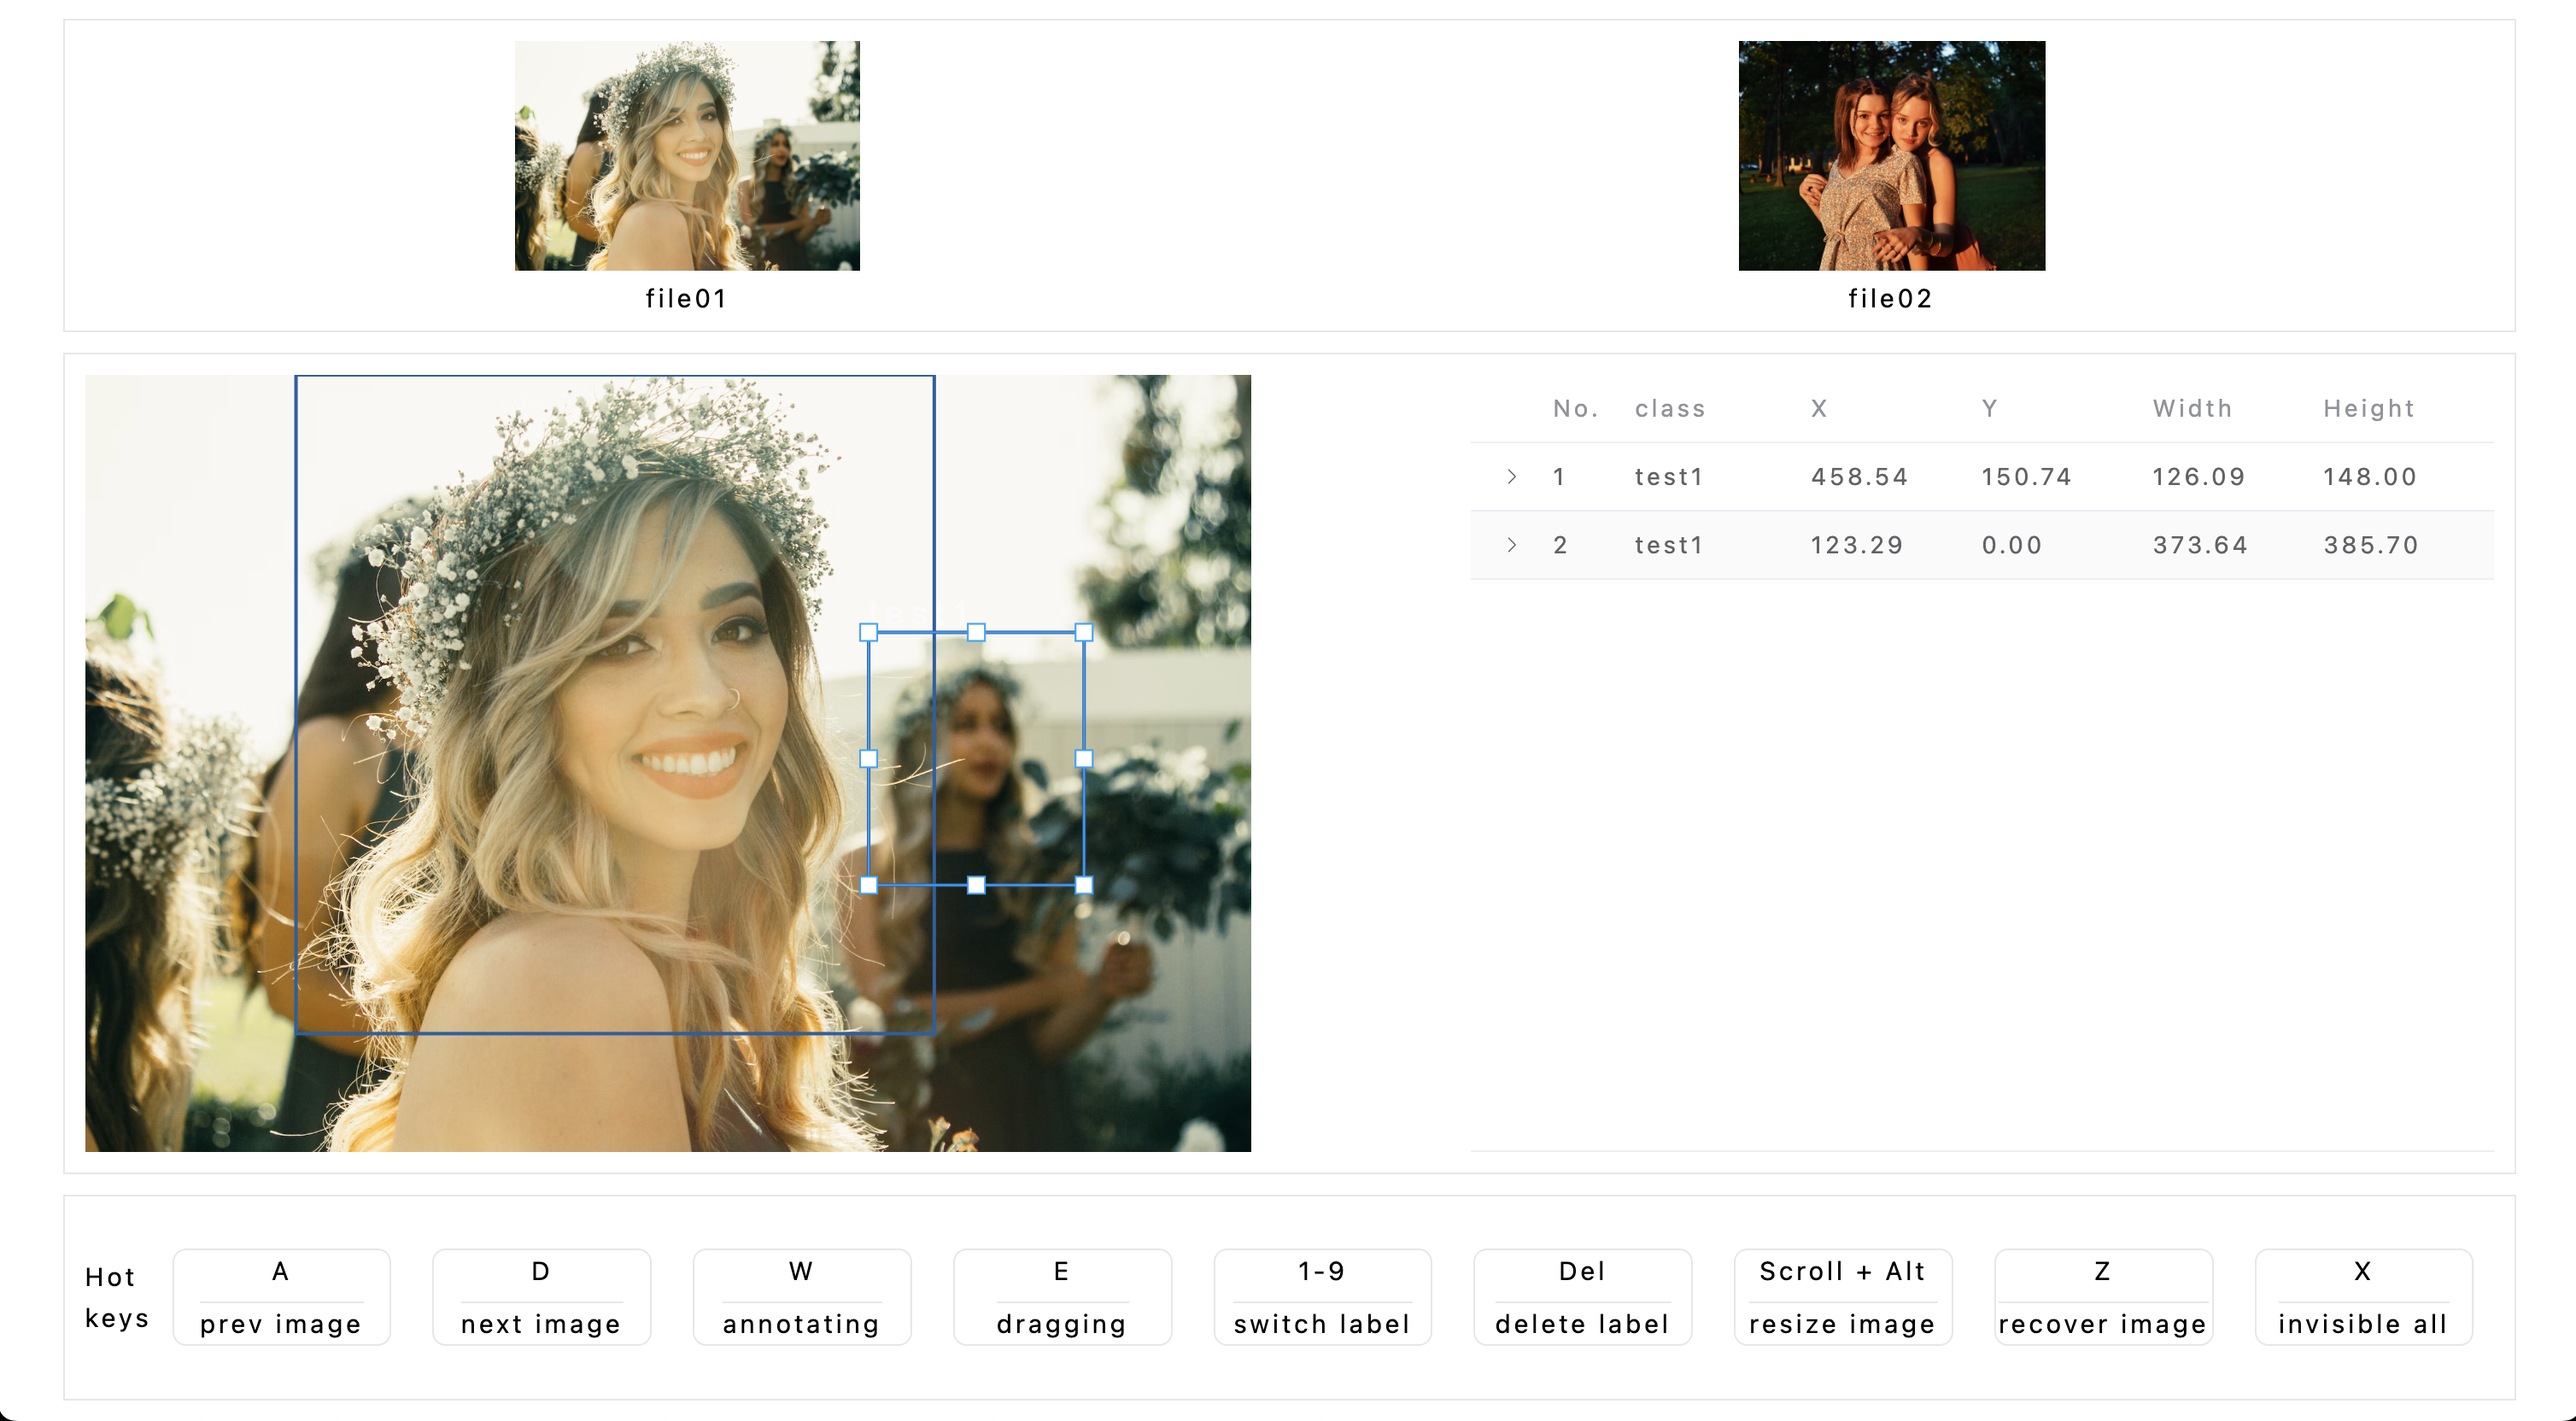
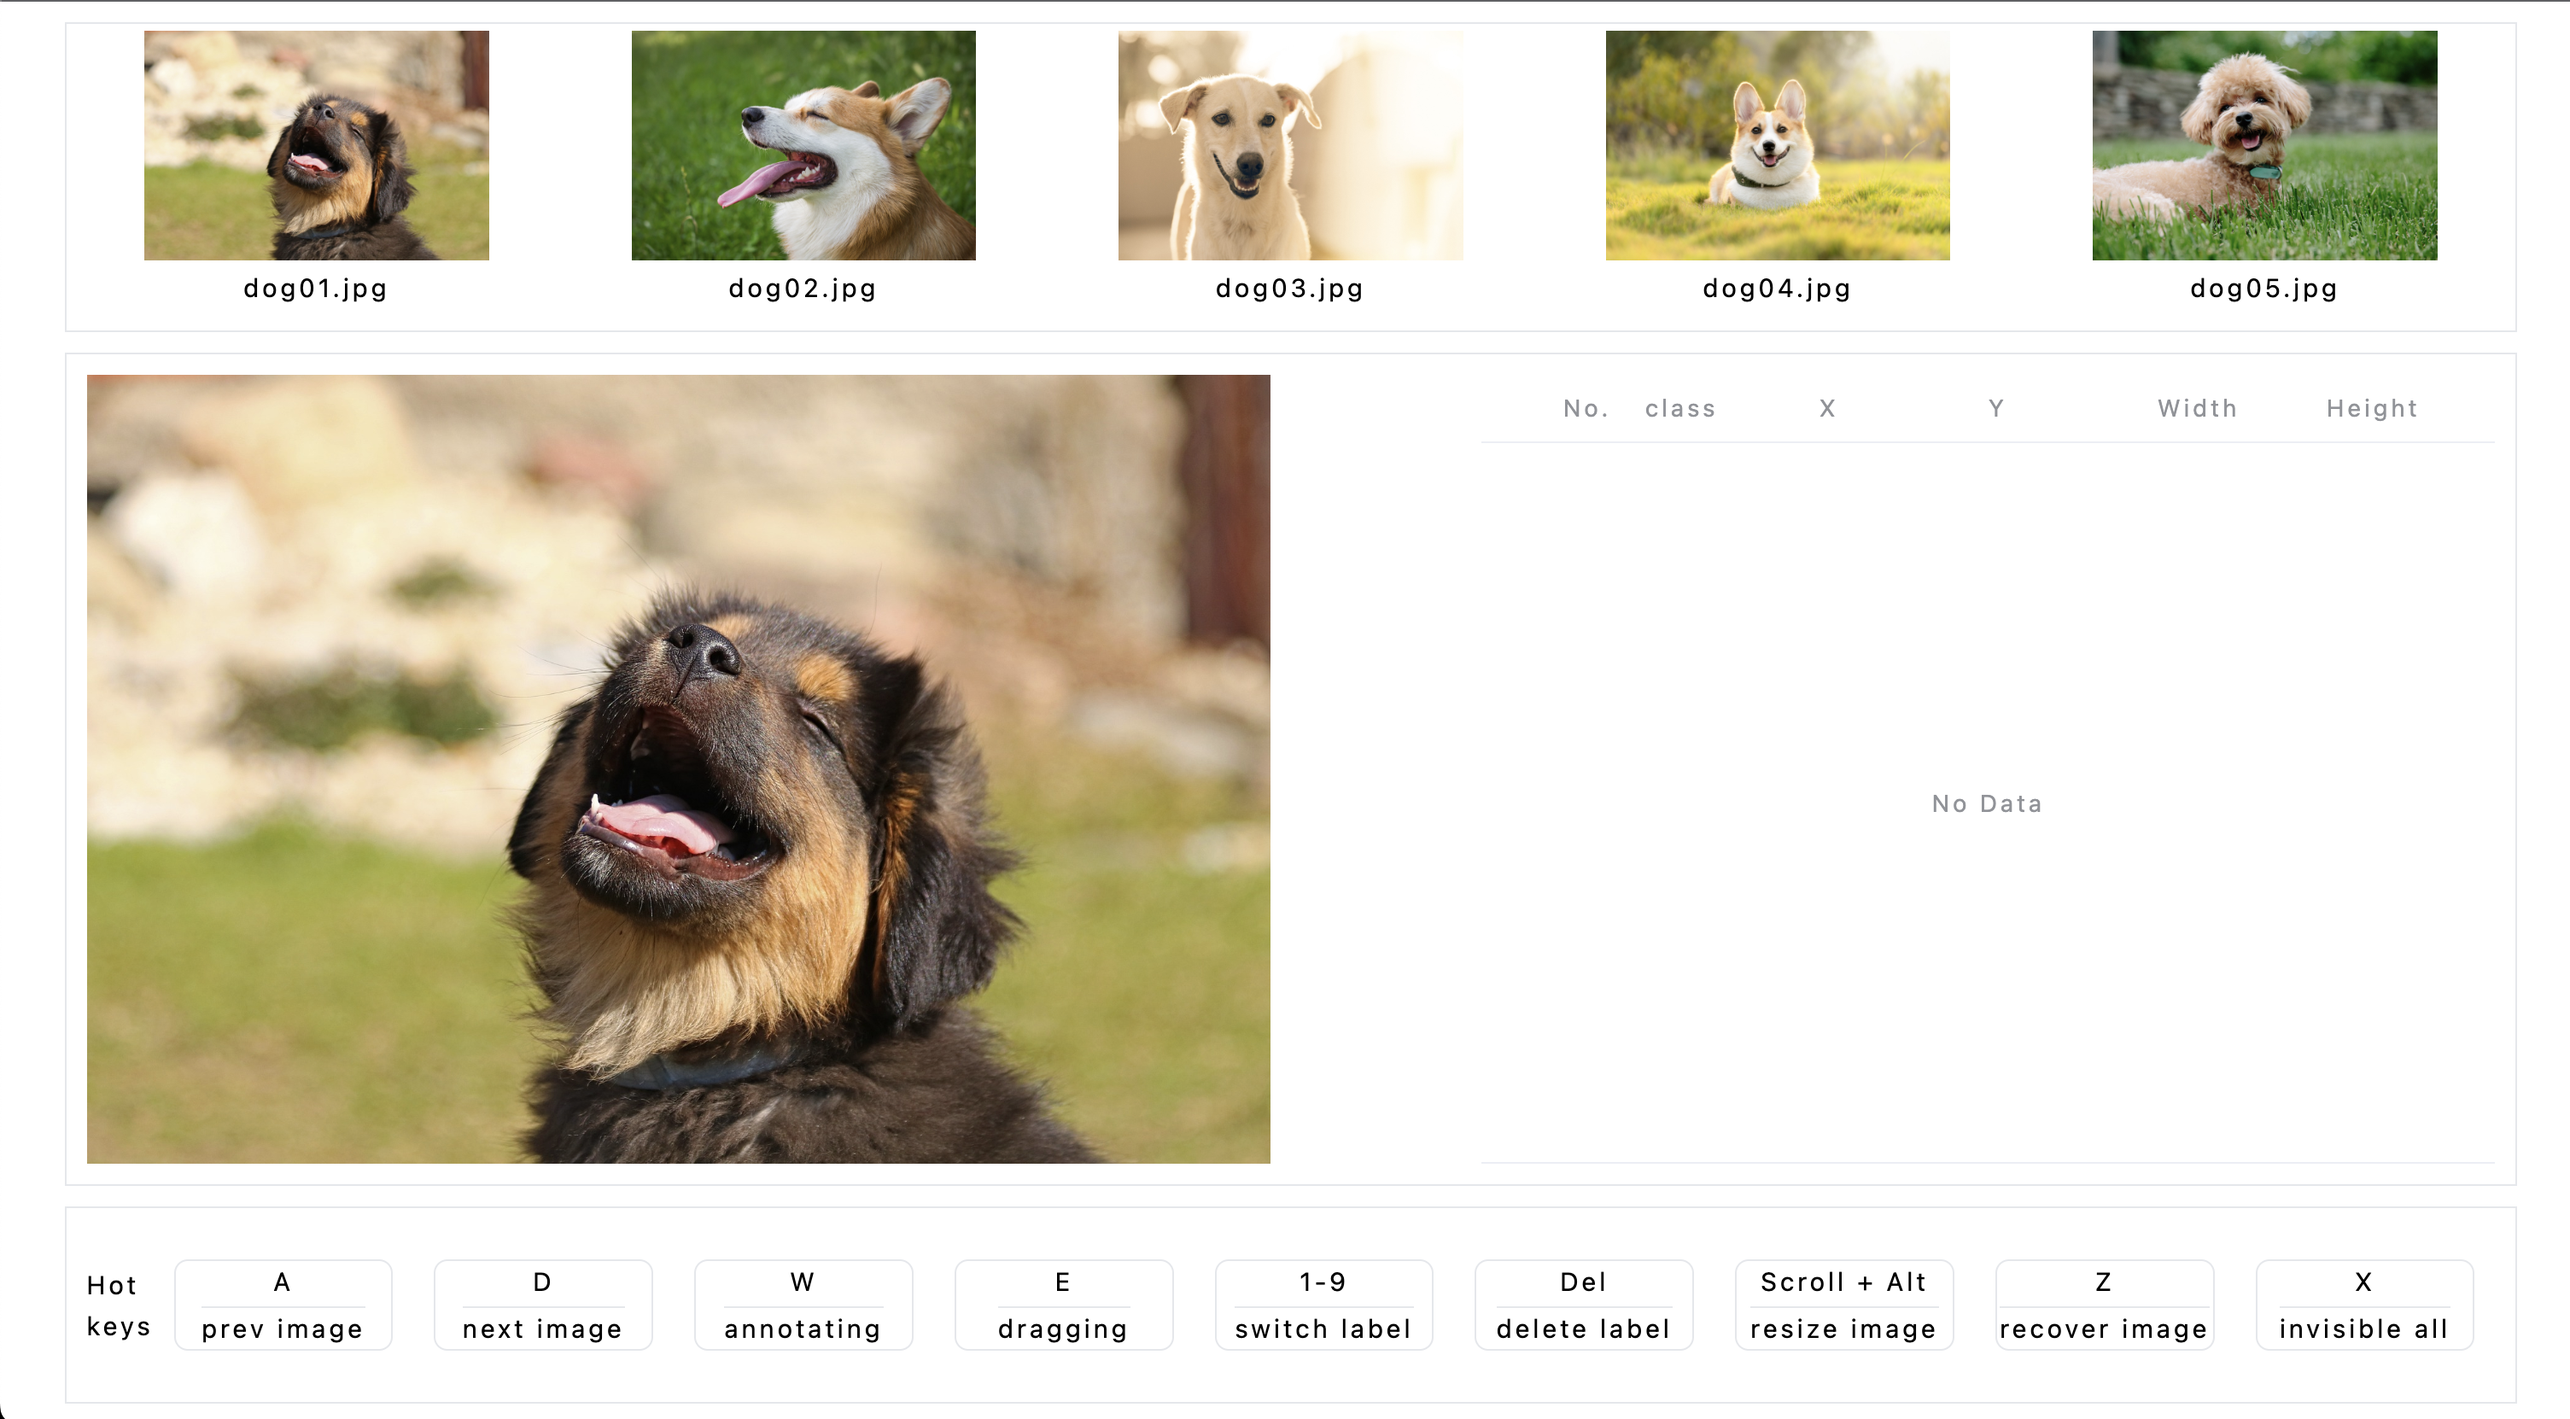
change image resources came from

diff --git a/src/views/LabelTool.vue b/src/views/LabelTool.vue
@@ -1,6 +1,6 @@
 <template>
   <div class="flex items-center w-screen h-screen flex-col">
-    <div class="w-[95vw] h-[22vh] border p-3 mt-3">
+    <div class="w-[95vw] h-[24vh] border p-1 mt-3">
       <el-scrollbar>
         <div class="flex">
           <div
@@ -50,6 +50,7 @@ import {
   Markbox,
   ToolData,
 } from "@/services/annotator.service";
+import getImageUrl from "@/services/image.service";
 
 const toolData: ToolData = reactive(new ToolData());
 const fileIndex: Ref<number> = ref(0);
@@ -89,18 +90,16 @@ onMounted(() => {
       color: getFixedColorHEXCode(i),
     });
   }
-  toolData.files.push(
-    {
-      name: "file01",
+
+  for (let i = 1; i <= 5; i++) {
+    const fileName: string = `dog0${i}.jpg`;
+    const file: FileInfo = {
+      name: fileName,
       markboxes: [],
-      url: "https://images.unsplash.com/photo-1495638671147-2cb03fe8e33e?ixlib=rb-4.0.3&ixid=MnwxMjA3fDB8MHxwaG90by1wYWdlfHx8fGVufDB8fHx8&auto=format&fit=crop&w=2070&q=80",
-    },
-    {
-      name: "file02",
-      markboxes: [],
-      url: "https://images.unsplash.com/photo-1623623294213-ec23975a7038?ixlib=rb-4.0.3&ixid=MnwxMjA3fDB8MHxwaG90by1wYWdlfHx8fGVufDB8fHx8&auto=format&fit=crop&w=1674&q=80",
-    }
-  );
+      url: getImageUrl(fileName),
+    };
+    toolData.files.push(file)
+  }
 });
 
 function changeLoadInfile(name: string, action: string): void {

diff --git a/src/services/image.service.ts b/src/services/image.service.ts
@@ -1,0 +1,3 @@
+export default function getImageUrl(name: string) {
+  return new URL(`../assets/images/${name}`, import.meta.url).href;
+}

diff --git a/README.md b/README.md
@@ -24,6 +24,4 @@ Here's a live demo of the component in action: [Link to Demo](https://nofear195.
 
 #### Reference Image Resource
 
-- [https://images.unsplash.com/photo-1495638671147-2cb03fe8e33e?ixlib=rb-4.0.3&ixid=MnwxMjA3fDB8MHxwaG90by1wYWdlfHx8fGVufDB8fHx8&auto=format&fit=crop&w=2070&q=80](https://images.unsplash.com/photo-1495638671147-2cb03fe8e33e?ixlib=rb-4.0.3&ixid=MnwxMjA3fDB8MHxwaG90by1wYWdlfHx8fGVufDB8fHx8&auto=format&fit=crop&w=2070&q=80)
-
-- [https://images.unsplash.com/photo-1623623294213-ec23975a7038?ixlib=rb-4.0.3&ixid=MnwxMjA3fDB8MHxwaG90by1wYWdlfHx8fGVufDB8fHx8&auto=format&fit=crop&w=1674&q=80](https://images.unsplash.com/photo-1623623294213-ec23975a7038?ixlib=rb-4.0.3&ixid=MnwxMjA3fDB8MHxwaG90by1wYWdlfHx8fGVufDB8fHx8&auto=format&fit=crop&w=1674&q=80)
+- [https://pixabay.com](https://pixabay.com)
